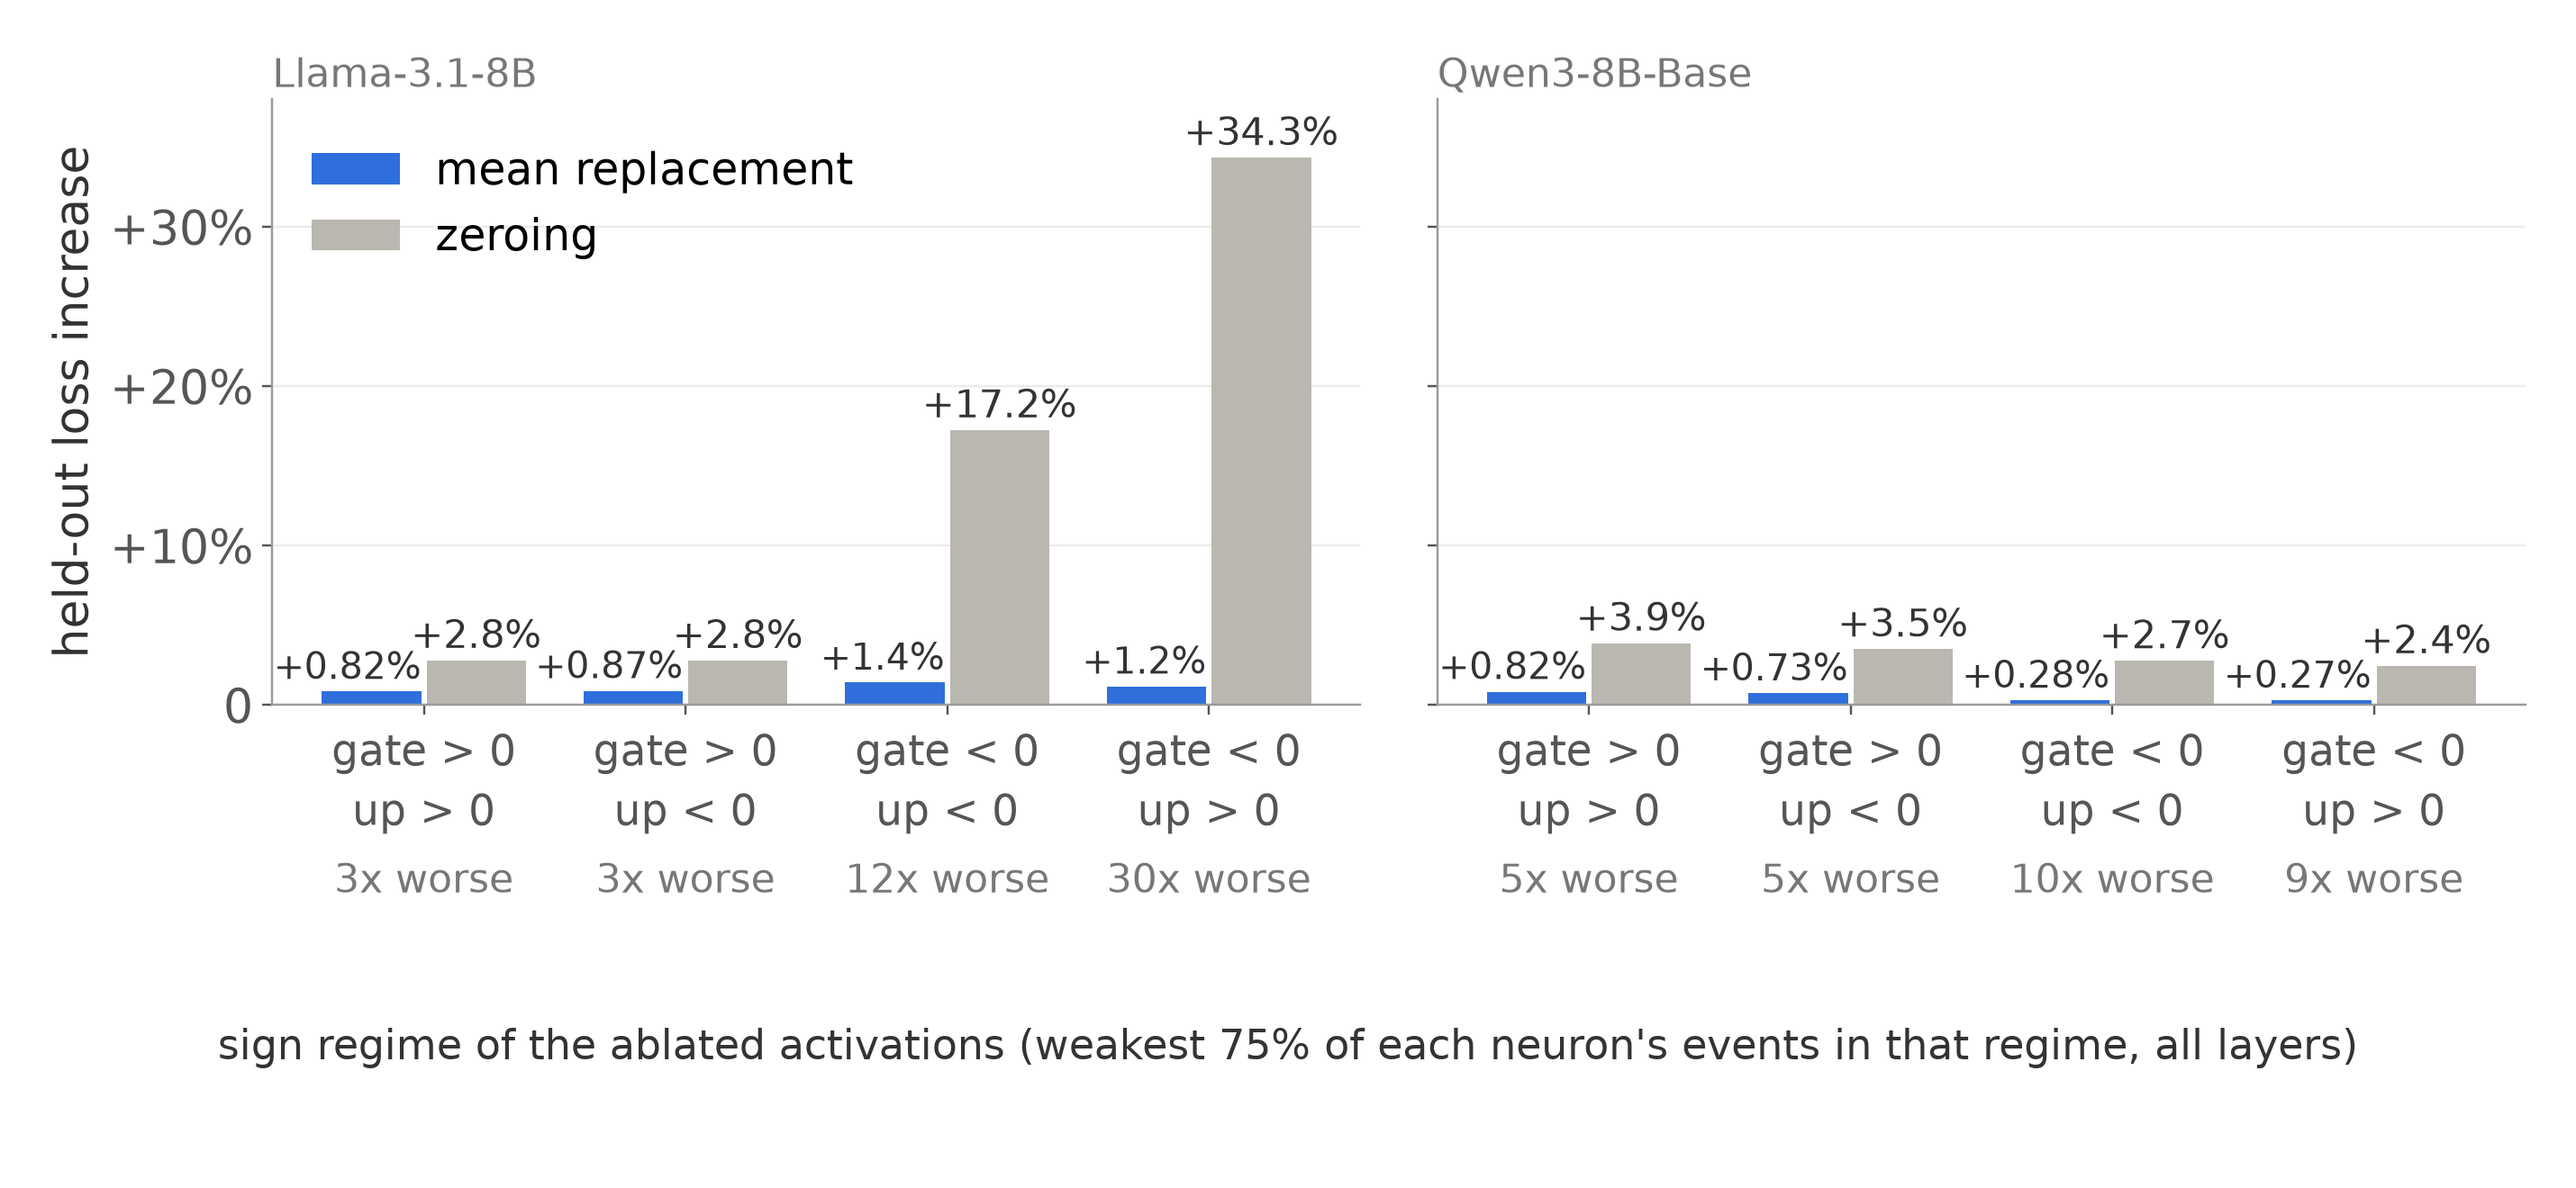
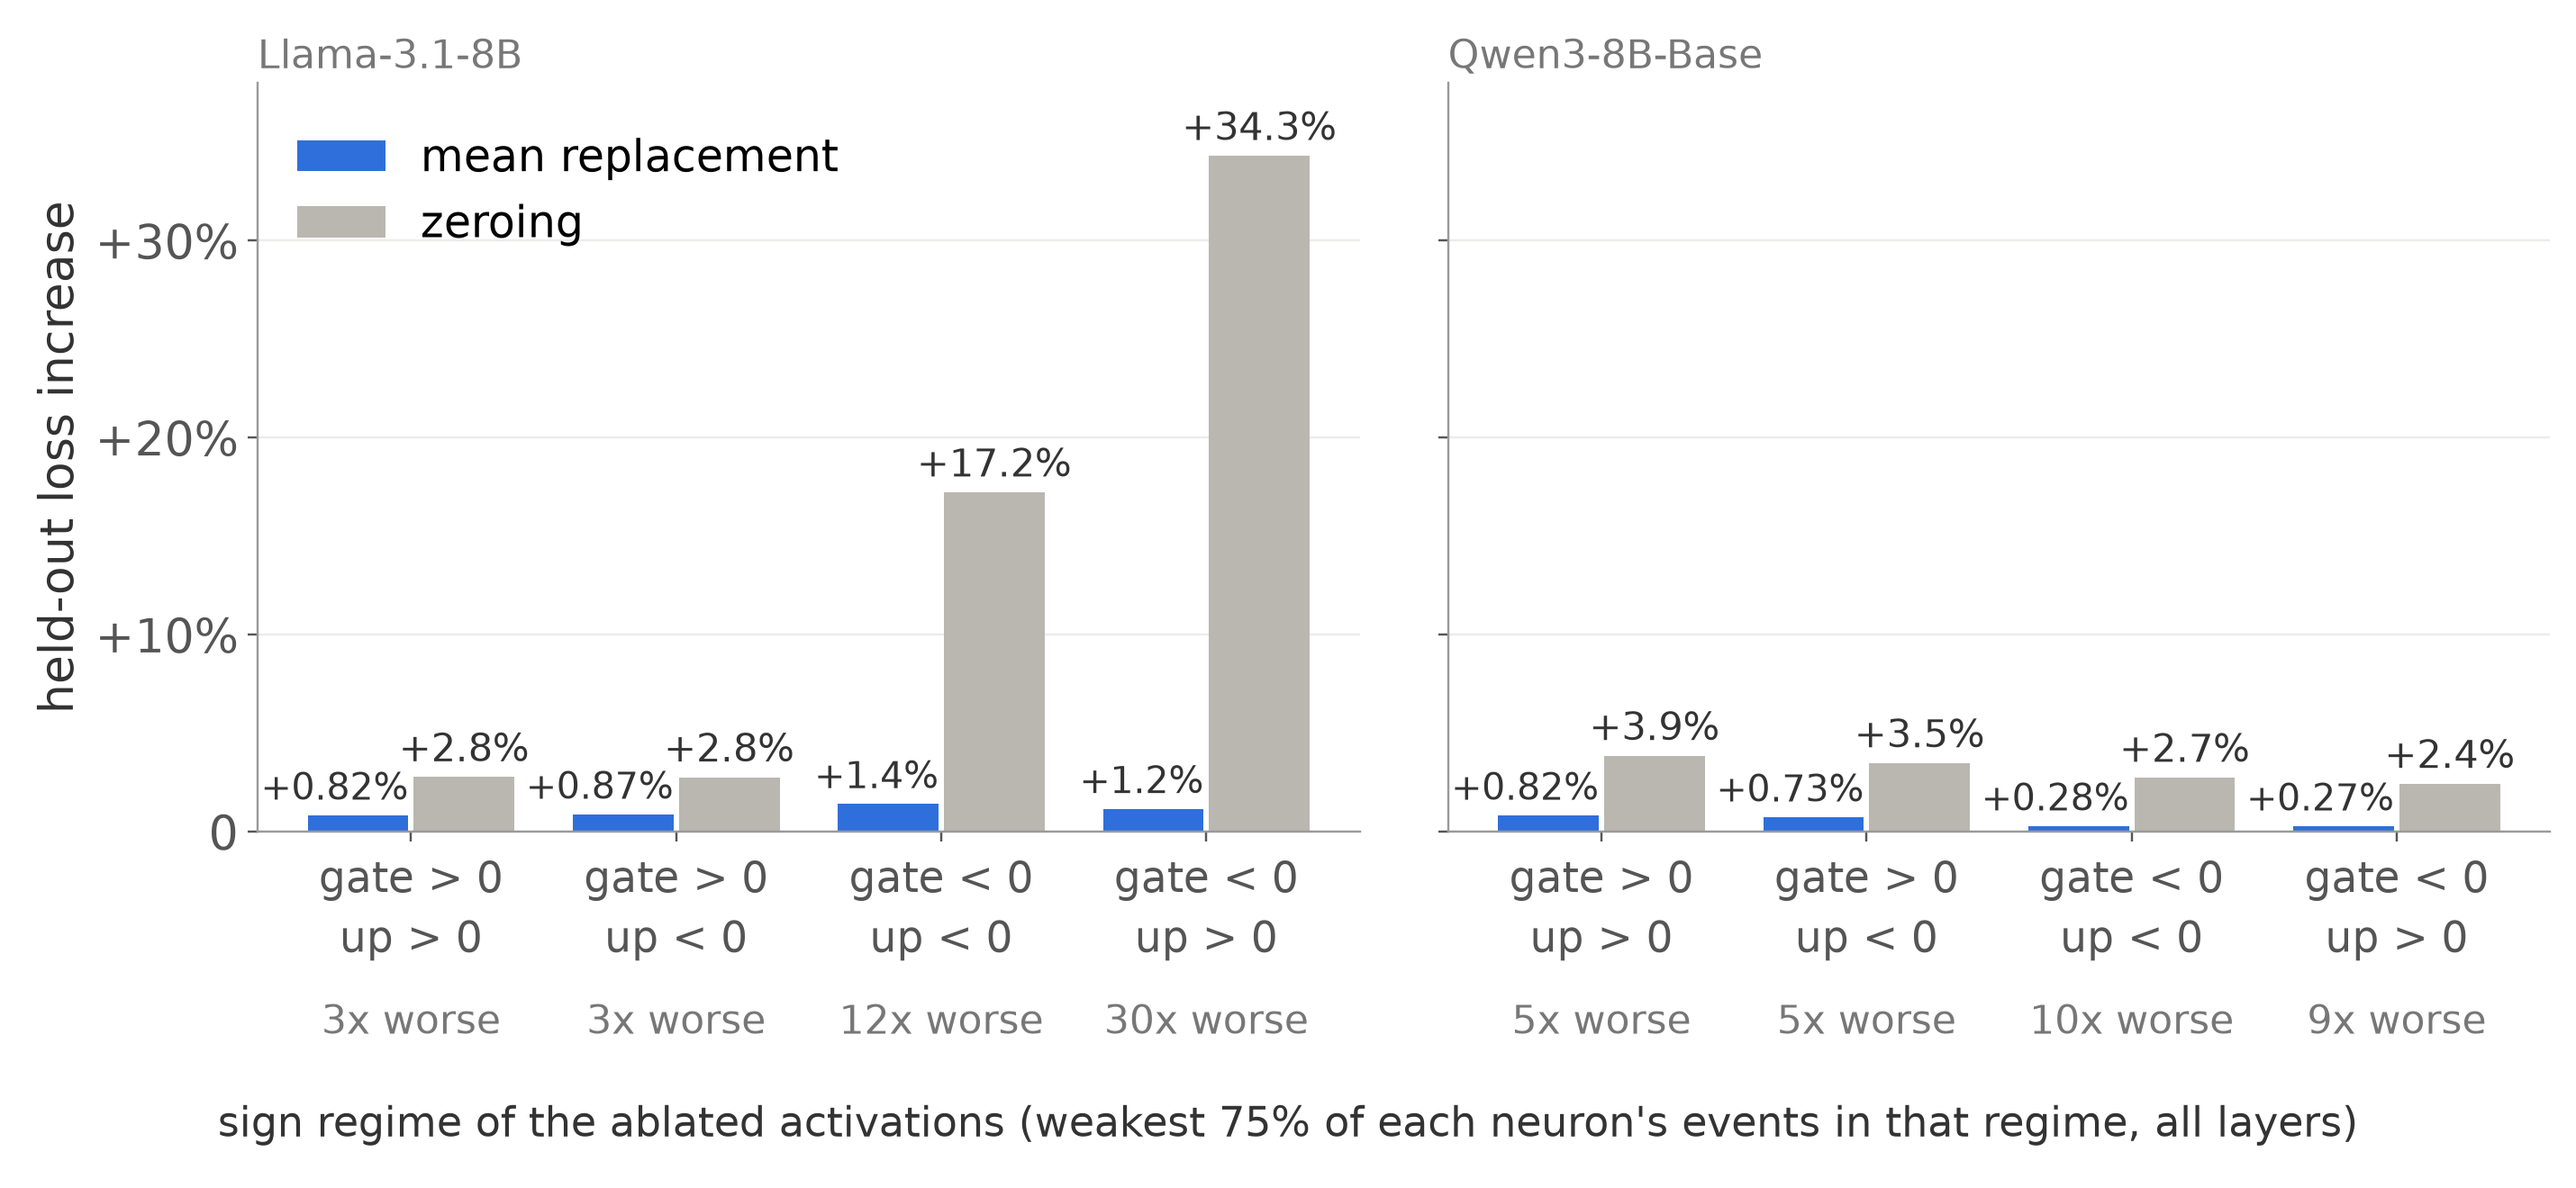
Tweet zero-vs-mean figure: explicit margins, x label moved up

diff --git a/src/fig_tweet_zero.py b/src/fig_tweet_zero.py
@@ -21,12 +21,12 @@ for log in [False, True]:
             ya = a * 1.12 if log else a + 0.8; yb = b * 1.12 if log else b + 0.8
             ax.text(xi - 0.26 if log else xi - 0.01, ya, fa, ha='center' if log else 'right', fontsize=13.5, color=INK); ax.text(xi + 0.2, yb, f'+{b:.1f}%', ha='center', fontsize=14, color=INK)
         ax.set_xticks(x); ax.set_xticklabels([f'{lab}\n' for _, lab in quads], fontsize=15.5, linespacing=1.4)
-        for xi, (a, b) in enumerate(zip(m, z)): ax.text(xi, -0.31, f'{b / a:.0f}x worse', transform=ax.get_xaxis_transform(), ha='center', fontsize=14.5, color='#777')
+        for xi, (a, b) in enumerate(zip(m, z)): ax.text(xi, -0.27, f'{b / a:.0f}x worse', transform=ax.get_xaxis_transform(), ha='center', fontsize=14.5, color='#777')
         ax.grid(axis='y', color='#ececea'); ax.set_axisbelow(True)
         ax.text(0.0, 1.02, label, transform=ax.transAxes, fontsize=14.5, color='#777')
         if log: ax.set_yscale('log'); ax.set_ylim(0.15, 60); ax.set_yticks([0.3, 1, 3, 10, 30]); ax.set_yticklabels(['+0.3%', '+1%', '+3%', '+10%', '+30%'])
         else: ax.set_ylim(0, 38); ax.set_yticks([0, 10, 20, 30]); ax.set_yticklabels(['0', '+10%', '+20%', '+30%'])
     axes[0].set_ylabel('held-out loss increase' + (' (log scale)' if log else ''))
     axes[0].legend(frameon=False, fontsize=16, loc='upper left', bbox_to_anchor=(0, 0.98))
-    fig.supxlabel("sign regime of the ablated activations (weakest 75% of each neuron's events in that regime, all layers)", fontsize=15, color=INK, y=0.1)
-    fig.tight_layout(rect=(0, 0.04, 1, 1)); out = os.path.join(ROOT, 'figures', 'tweet_zero_vs_mean' + ('_log' if log else '') + '.png'); fig.savefig(out, dpi=220); plt.close(fig); print('wrote', out)
+    fig.supxlabel("sign regime of the ablated activations (weakest 75% of each neuron's events in that regime, all layers)", fontsize=15, color=INK, y=0.035)
+    fig.subplots_adjust(left=0.1, right=0.99, top=0.93, bottom=0.3, wspace=0.08); out = os.path.join(ROOT, 'figures', 'tweet_zero_vs_mean' + ('_log' if log else '') + '.png'); fig.savefig(out, dpi=220); plt.close(fig); print('wrote', out)
